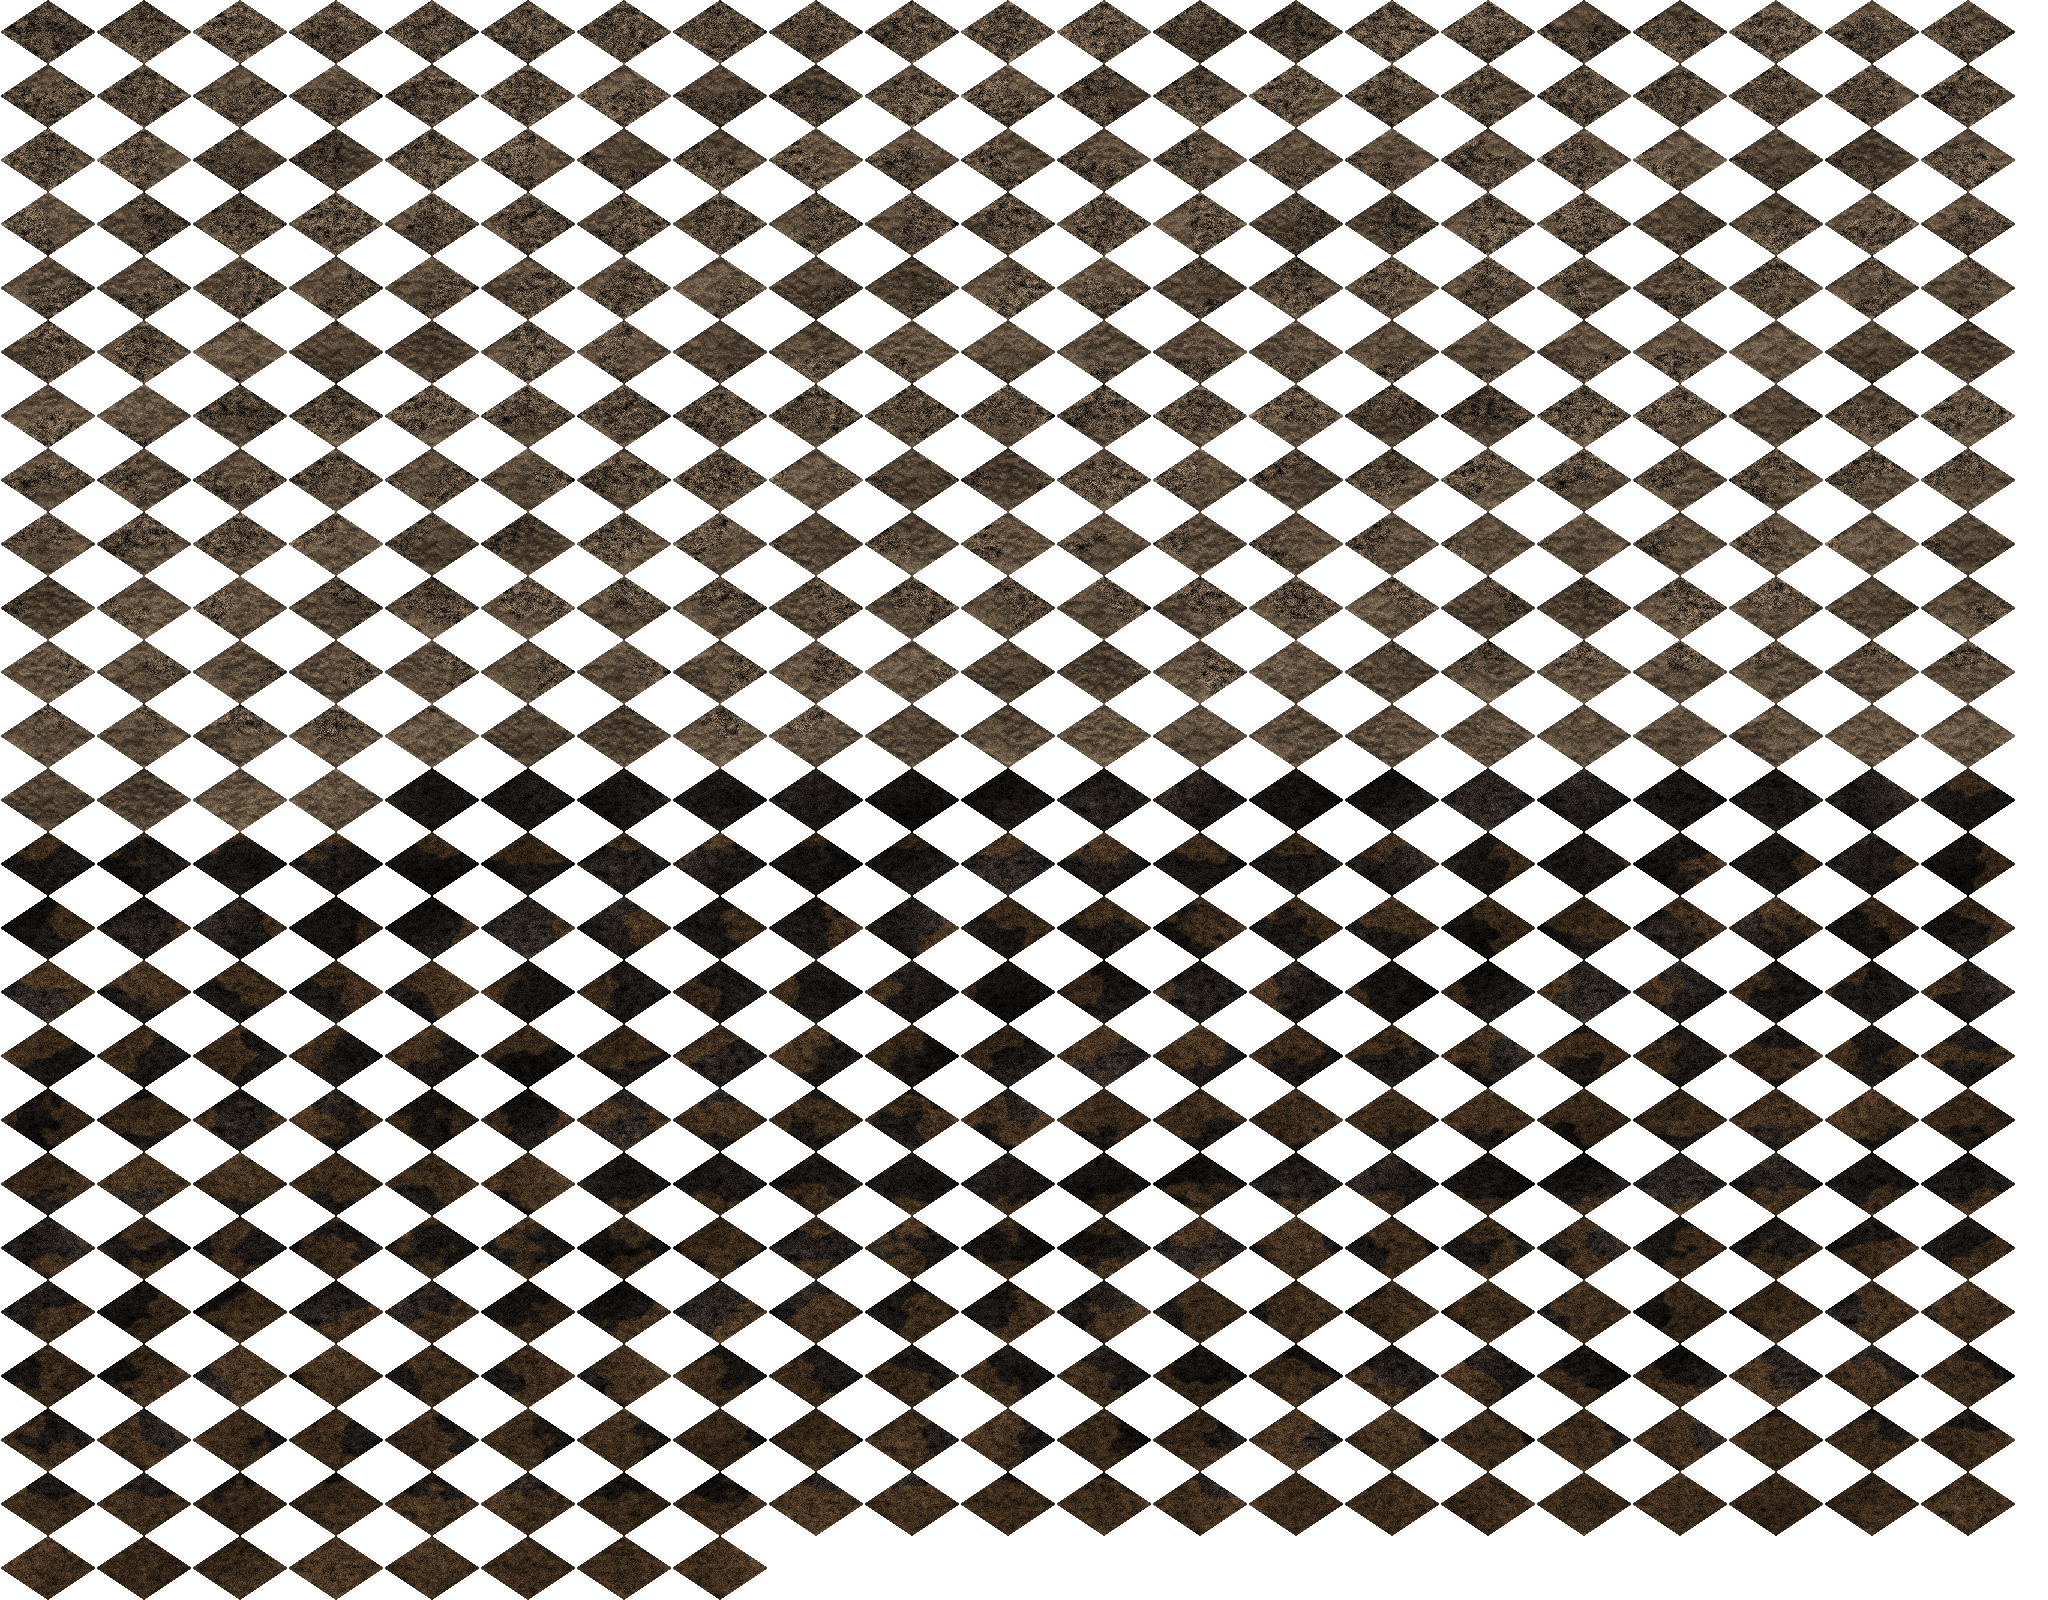
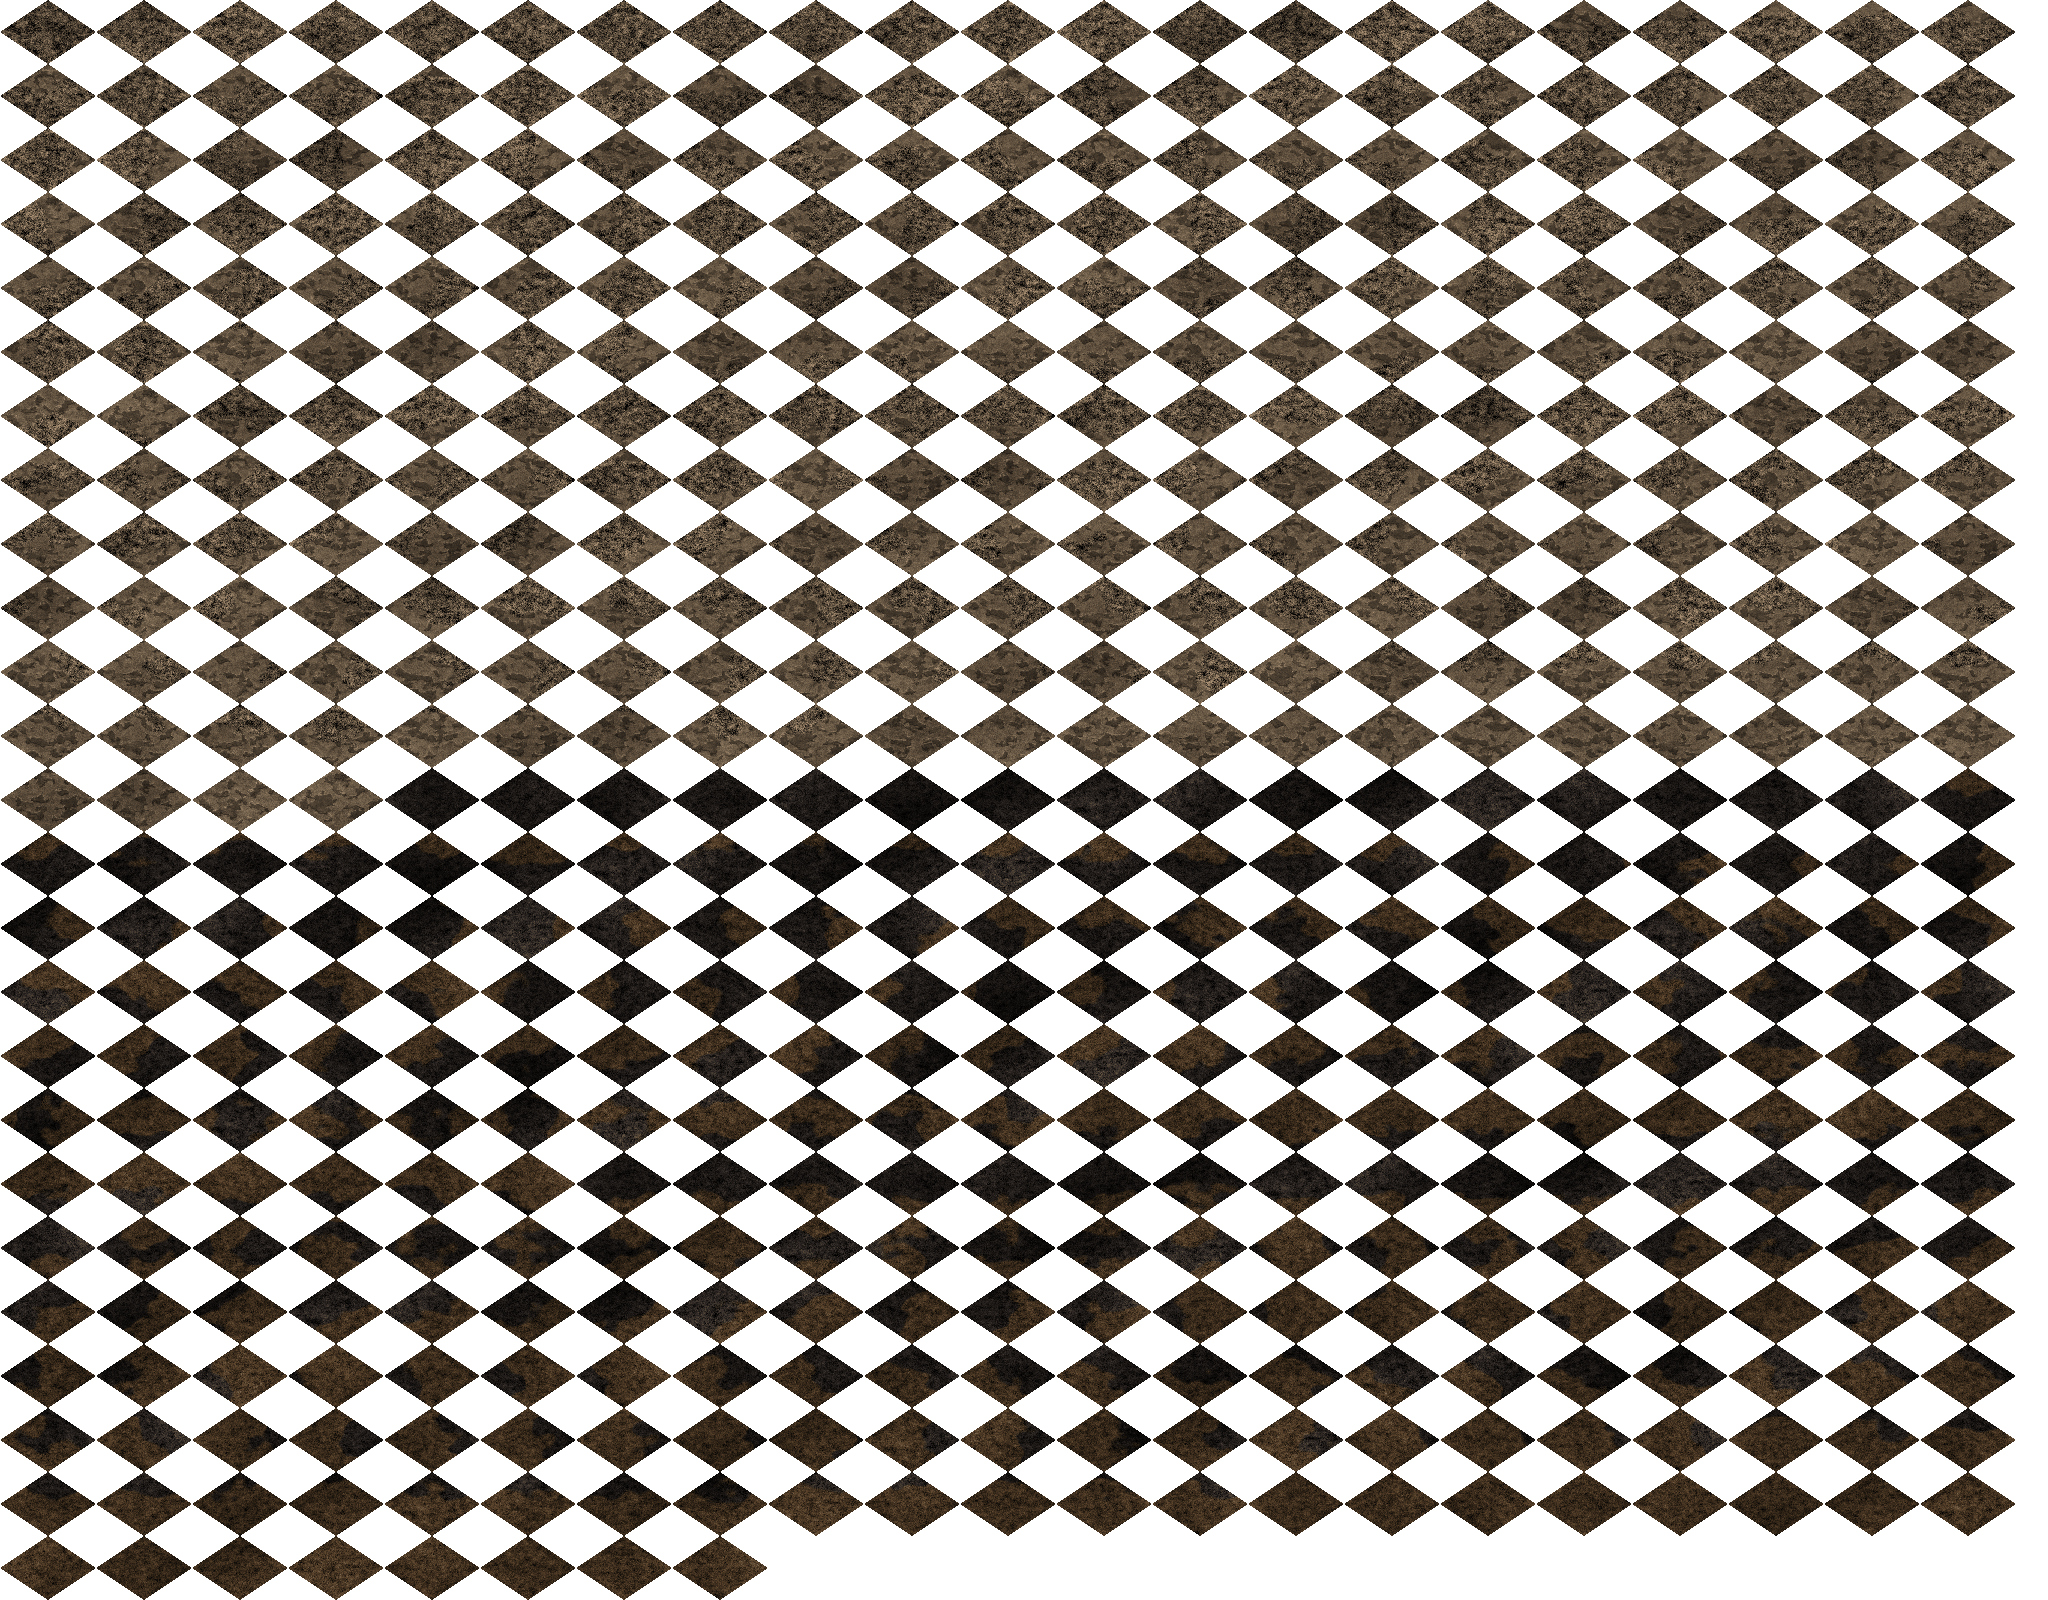
Caves: chunky rock floor and craggy red-brown walls
The cave floor was a soft mottle; it is now broken into flat chunks of
rock, each at its own height with a lit lip and a shadow, like the
original's. The cave and deep-cave walls were flat faces flecked with
bright orange; they now have big angular crags heaped on them
(cave.crags), in a finer red-brown rock that the light picks out.

Claude-Session: https://claude.ai/code/session_01UcMoCU5phFRDaz2VddJRC8

diff --git a/tools/art/ground.py b/tools/art/ground.py
@@ -88,6 +88,30 @@ def crumbs(rng, res, per_tile, keep, sharp=2.5):
     return h * up
 
 
+def plates(rng, res, per_tile):
+    """Flat stone plates: a wrapping res x res grid of Voronoi cells
+    (per_tile to a tile edge, PERIOD tiles across). Returns each pixel's
+    distance to its cell's border (in cell sizes) and its cell's random
+    shade (-1 to 1)."""
+    g = PERIOD * per_tile
+    pts = (np.mgrid[0:g, 0:g].transpose(1, 2, 0) + rng.uniform(0.1, 0.9, (g, g, 2))) / g
+    shade = rng.uniform(-1, 1, (g, g))
+    yy, xx = (np.mgrid[0:res, 0:res] + 0.5) / res
+    cy, cx = np.floor(yy * g).astype(int), np.floor(xx * g).astype(int)
+    d, val = [], []
+    for dy in (-1, 0, 1):
+        for dx in (-1, 0, 1):
+            ny, nx = (cy + dy) % g, (cx + dx) % g
+            py = pts[ny, nx, 0] + np.floor((cy + dy) / g)
+            px = pts[ny, nx, 1] + np.floor((cx + dx) / g)
+            d.append((yy - py) ** 2 + (xx - px) ** 2)
+            val.append(shade[ny, nx])
+    d, val = np.stack(d), np.stack(val)
+    order = np.argsort(d, axis=0)
+    d = np.take_along_axis(d, order, 0)
+    return (np.sqrt(d[1]) - np.sqrt(d[0])) * g, np.take_along_axis(val, order[:1], 0)[0]
+
+
 class Ground:
     RES = 128  # samples per tile of the crumb relief
 
@@ -326,11 +350,6 @@ class Cave(Ground):
         h = np.clip((np.sqrt(d[1]) - np.sqrt(d[0])) * g * 2.5, 0, 1) ** 0.5
         return h * up
 
-    def sample(self, grid, u, v):
-        x = (np.asarray(u) % PERIOD) / PERIOD * self.res
-        y = (np.asarray(v) % PERIOD) / PERIOD * self.res
-        return grid[y.astype(int) % self.res, x.astype(int) % self.res]
-
     def texture(self, u, v):
         big = self.big(u, v)
         fine = 0.85 * self.rng.standard_normal(np.shape(u)) + 0.5 * self.fine(u, v)
@@ -348,9 +367,22 @@ class Cave(Ground):
             moss = colour(np.array([32, 31, 21.0]), np.array([13, 13, 9.0]), np.array([50, 50, 34.0]),
                           np.clip(2.0 * light, -1, 1) * 0.5 + 0.2 * big, fine, 0.3)
             return earth, moss * (0.75 + 0.25 * lump)[..., None], self.edge(u, v)
+        # Chunks of flat rock with bevelled edges, lit from the top of the
+        # screen; a few lower chunks between them sit in shadow.
+        if not hasattr(self, "chunk"):
+            edge, val = plates(np.random.default_rng(self.seed + 9), 128 * PERIOD, 9)
+            # Each chunk stands at its own height; only steps between
+            # neighbours show, as a lit lip above and a shadow below.
+            level = np.clip((val + 0.6) * 2.5, 0, 1)
+            h = level * (0.75 + 0.25 * np.clip(edge / 0.12, 0, 1))
+            lit = np.roll(h, (2, 2), (0, 1)) - np.roll(h, (-2, -2), (0, 1))
+            self.chunk = h, val, lit
+        # Wobble the lookup so the chunks' sides are ragged, not straight.
+        wu, wv = u + 0.035 * self.edge(u * 4, v * 4), v + 0.035 * self.edge(v * 4 + 1.3, u * 4 + 0.7)
+        h, val, lit = (self.sample(g, wu, wv) for g in self.chunk)
         rock = colour(np.array([90, 75, 58.0]), np.array([46, 37, 28.0]), np.array([136, 118, 94.0]),
-                      np.clip(2.0 * light, -1, 1) * 0.55 + 0.15 * big, fine, 0.14)
-        rock = rock * (0.8 + 0.2 * lump)[..., None]
+                      0.5 * np.clip(1.5 * lit, -1, 1) + 0.1 * val + 0.12 * big, fine, 0.1)
+        rock = rock * (0.7 + 0.3 * h)[..., None]
         gravel = colour(np.array([72, 60, 48.0]), np.array([40, 33, 26.0]), np.array([104, 90, 72.0]),
                         0.2 * big, fine, 0.40)
         return rock, gravel, self.edge(u, v)

diff --git a/tools/art/deep.py b/tools/art/deep.py
@@ -20,14 +20,16 @@ import bmesh  # noqa: E402  (after bpy)
 
 sys.path.insert(0, str(Path(__file__).resolve().parent))
 import studio  # noqa: E402
-from cave import rough  # noqa: E402
+from cave import crags, rough  # noqa: E402
 from dungeon import solid, turn  # noqa: E402
 from town import IRON, _mats, ball, box, cyl, mat  # noqa: E402
 
-EARTHWALL = dict(colour=(0.30, 0.14, 0.05), dark=(0.025, 0.01, 0.005), scale=22, detail=14, rough=1.0, bump=1.8,
-                 band=(0.4, 0.72), spot=0.25, spot_colour=(0.70, 0.36, 0.10))
-# The tall faces and blocks: browner, with lit orange flecks.
-GORGE = dict(EARTHWALL, colour=(0.28, 0.16, 0.08), scale=26, detail=16, bump=2.6, spot=0.4, spot_colour=(0.72, 0.44, 0.18))
+# Red-brown rock, finely grained; the light on its craggy facets (cave.crags)
+# brings out the orange.
+EARTHWALL = dict(colour=(0.55, 0.30, 0.11), dark=(0.035, 0.018, 0.008), scale=18, detail=16, rough=1.0, bump=1.2,
+                 band=(0.36, 0.72), grime=0.6)
+# The tall faces and blocks: a little browner.
+GORGE = dict(EARTHWALL, colour=(0.46, 0.28, 0.13))
 SHADOW = dict(colour=(0.035, 0.022, 0.015), dark=(0.01, 0.006, 0.004), scale=14, rough=1.0, bump=0.6)
 RAIL = dict(colour=(0.40, 0.39, 0.36), dark=(0.10, 0.10, 0.09), scale=6, bump=0.6, stretch=(8, 1, 1), grime=0.5)
 STONE = dict(colour=(0.30, 0.30, 0.31), dark=(0.07, 0.07, 0.08), scale=6, bump=0.8, grime=0.6,
@@ -53,6 +55,8 @@ def earth_wall(along_y=False, seed=1, dark=False):
     rng = random.Random(seed)
     m = mat("shadow", SHADOW) if dark else mat("earthwall", EARTHWALL)
     rough(solid(box((WALL_L, 0.6, WALL_H), (0, 0.15, WALL_H / 2), m)), 0.5, 0.9, seed, cuts=26)
+    if not dark:
+        crags(WALL_L, WALL_H * 0.9, 0.7, m, seed)
     if dark:
         rough(solid(box((WALL_L + 0.2, 0.9, 0.5), (0, 0.15, WALL_H), mat("earthwall", EARTHWALL))), 0.25, 0.5, seed,
               cuts=12)
@@ -72,6 +76,7 @@ def earth_tall(along_y=False, seed=11):
     the floor like the side of a gorge, with a ragged lit top."""
     m = mat("gorge", GORGE)
     rough(solid(box((TALL_L, 1.6, TALL_H), (0, 0.3, TALL_H / 2), m)), 0.9, 1.5, seed, cuts=30)
+    crags(TALL_L, TALL_H * 0.9, 1.0, m, seed, count=12, at=(0, -0.3, 0))
     rough(solid(box((TALL_L + 0.3, 2.0, 0.8), (0, 0.3, TALL_H), m)), 0.6, 0.9, seed + 1, cuts=14)
     if along_y:
         turn(math.pi / 2)
@@ -83,6 +88,10 @@ def earth_block(seed=12, dark=False):
     ragged earth top."""
     m = mat("gorge", GORGE)
     rough(solid(box((BLOCK, BLOCK, 4.2), (0, 0, 2.1), mat("shadow", SHADOW) if dark else m)), 0.8, 1.5, seed, cuts=26)
+    if not dark:
+        # Crags on the two faces the camera sees.
+        crags(BLOCK, 3.6, 0.9, m, seed, count=12, at=(0, -BLOCK / 2, 0))
+        crags(BLOCK, 3.6, 0.9, m, seed + 50, count=12, at=(BLOCK / 2, 0, 0), along_y=True)
     rough(solid(box((BLOCK + 0.3, BLOCK + 0.3, 0.8), (0, 0, 4.3), m)), 0.6, 0.9, seed + 1, cuts=18)
 
 

diff --git a/tools/art/cave.py b/tools/art/cave.py
@@ -21,8 +21,8 @@ import studio  # noqa: E402
 from dungeon import DARK, solid, turn  # noqa: E402
 from town import IRON, _mats, ball, box, cyl, mat, mesh  # noqa: E402
 
-ROCK = dict(colour=(0.40, 0.22, 0.09), dark=(0.035, 0.02, 0.012), scale=18, detail=14, bump=1.6, grime=0.5,
-            band=(0.45, 0.65), spot=0.28, spot_colour=(0.70, 0.44, 0.20))
+ROCK = dict(colour=(0.52, 0.29, 0.10), dark=(0.035, 0.018, 0.008), scale=30, detail=16, bump=0.8, grime=0.5,
+            band=(0.4, 0.7))
 TIMBER = dict(colour=(0.46, 0.28, 0.13), dark=(0.14, 0.08, 0.04), scale=6, bump=0.6, stretch=(1, 1, 8), grime=0.3)
 BOARDS = dict(colour=(0.22, 0.21, 0.19), dark=(0.06, 0.06, 0.05), scale=5, bump=0.5, stretch=(6, 6, 0.4),
               grime=0.6, spot=0.25, spot_colour=(0.40, 0.17, 0.07))
@@ -43,11 +43,32 @@ def rough(o, strength=0.35, size=0.6, seed=1, cuts=24):
     return o
 
 
+def crags(width, height, depth, mat_, seed=1, count=14, at=(0, 0, 0), along_y=False):
+    """Big angular masses of rock heaped into a wall face, like the
+    original's caves: low-poly lumps, flat shaded, so each facet catches
+    the light on its own and dark clefts open between them. The face runs
+    along x (or y) through `at`."""
+    rng = random.Random(seed)
+    for k in range(count):
+        t = -width / 2 + width * (k + rng.uniform(0.1, 0.9)) / count
+        r = rng.uniform(0.9, 1.6)
+        # Kept under the top of the face, which stays ragged but level.
+        z = at[2] + rng.uniform(0.5 * r, max(0.5 * r, height - 1.1 * r))
+        d = rng.uniform(-0.2, 0.3)
+        loc = (at[0] - d, at[1] + t, z) if along_y else (at[0] + t, at[1] + d, z)
+        bpy.ops.mesh.primitive_ico_sphere_add(subdivisions=1, radius=r, location=loc)
+        o = bpy.context.object
+        o.scale = (rng.uniform(0.8, 1.3), depth / r * rng.uniform(0.35, 0.55), rng.uniform(0.7, 1.0))
+        o.rotation_euler = (rng.uniform(0, 3.1), rng.uniform(0, 3.1), rng.uniform(0, 3.1))
+        studio.assign(o, mat_)
+
+
 def rock_wall(along_y=False, props=False, seed=1):
     """A wall of raw brown rock, darker towards the top; with props, two
     timber posts and a cap beam hold the face up."""
     rock, timber = mat("rock", ROCK), mat("timber", TIMBER)
-    rough(solid(box((WALL_L, 1.2, WALL_H), (0, 0.2, WALL_H / 2), rock)), 0.45, 0.8, seed)
+    rough(solid(box((WALL_L, 1.0, WALL_H), (0, 0.3, WALL_H / 2), rock)), 0.45, 0.8, seed)
+    crags(WALL_L, WALL_H, 1.0, rock, seed)
     if props:
         for x in (-2.0, 2.0):
             box((0.45, 0.45, WALL_H - 0.8), (x, -0.75, (WALL_H - 0.8) / 2), timber)
